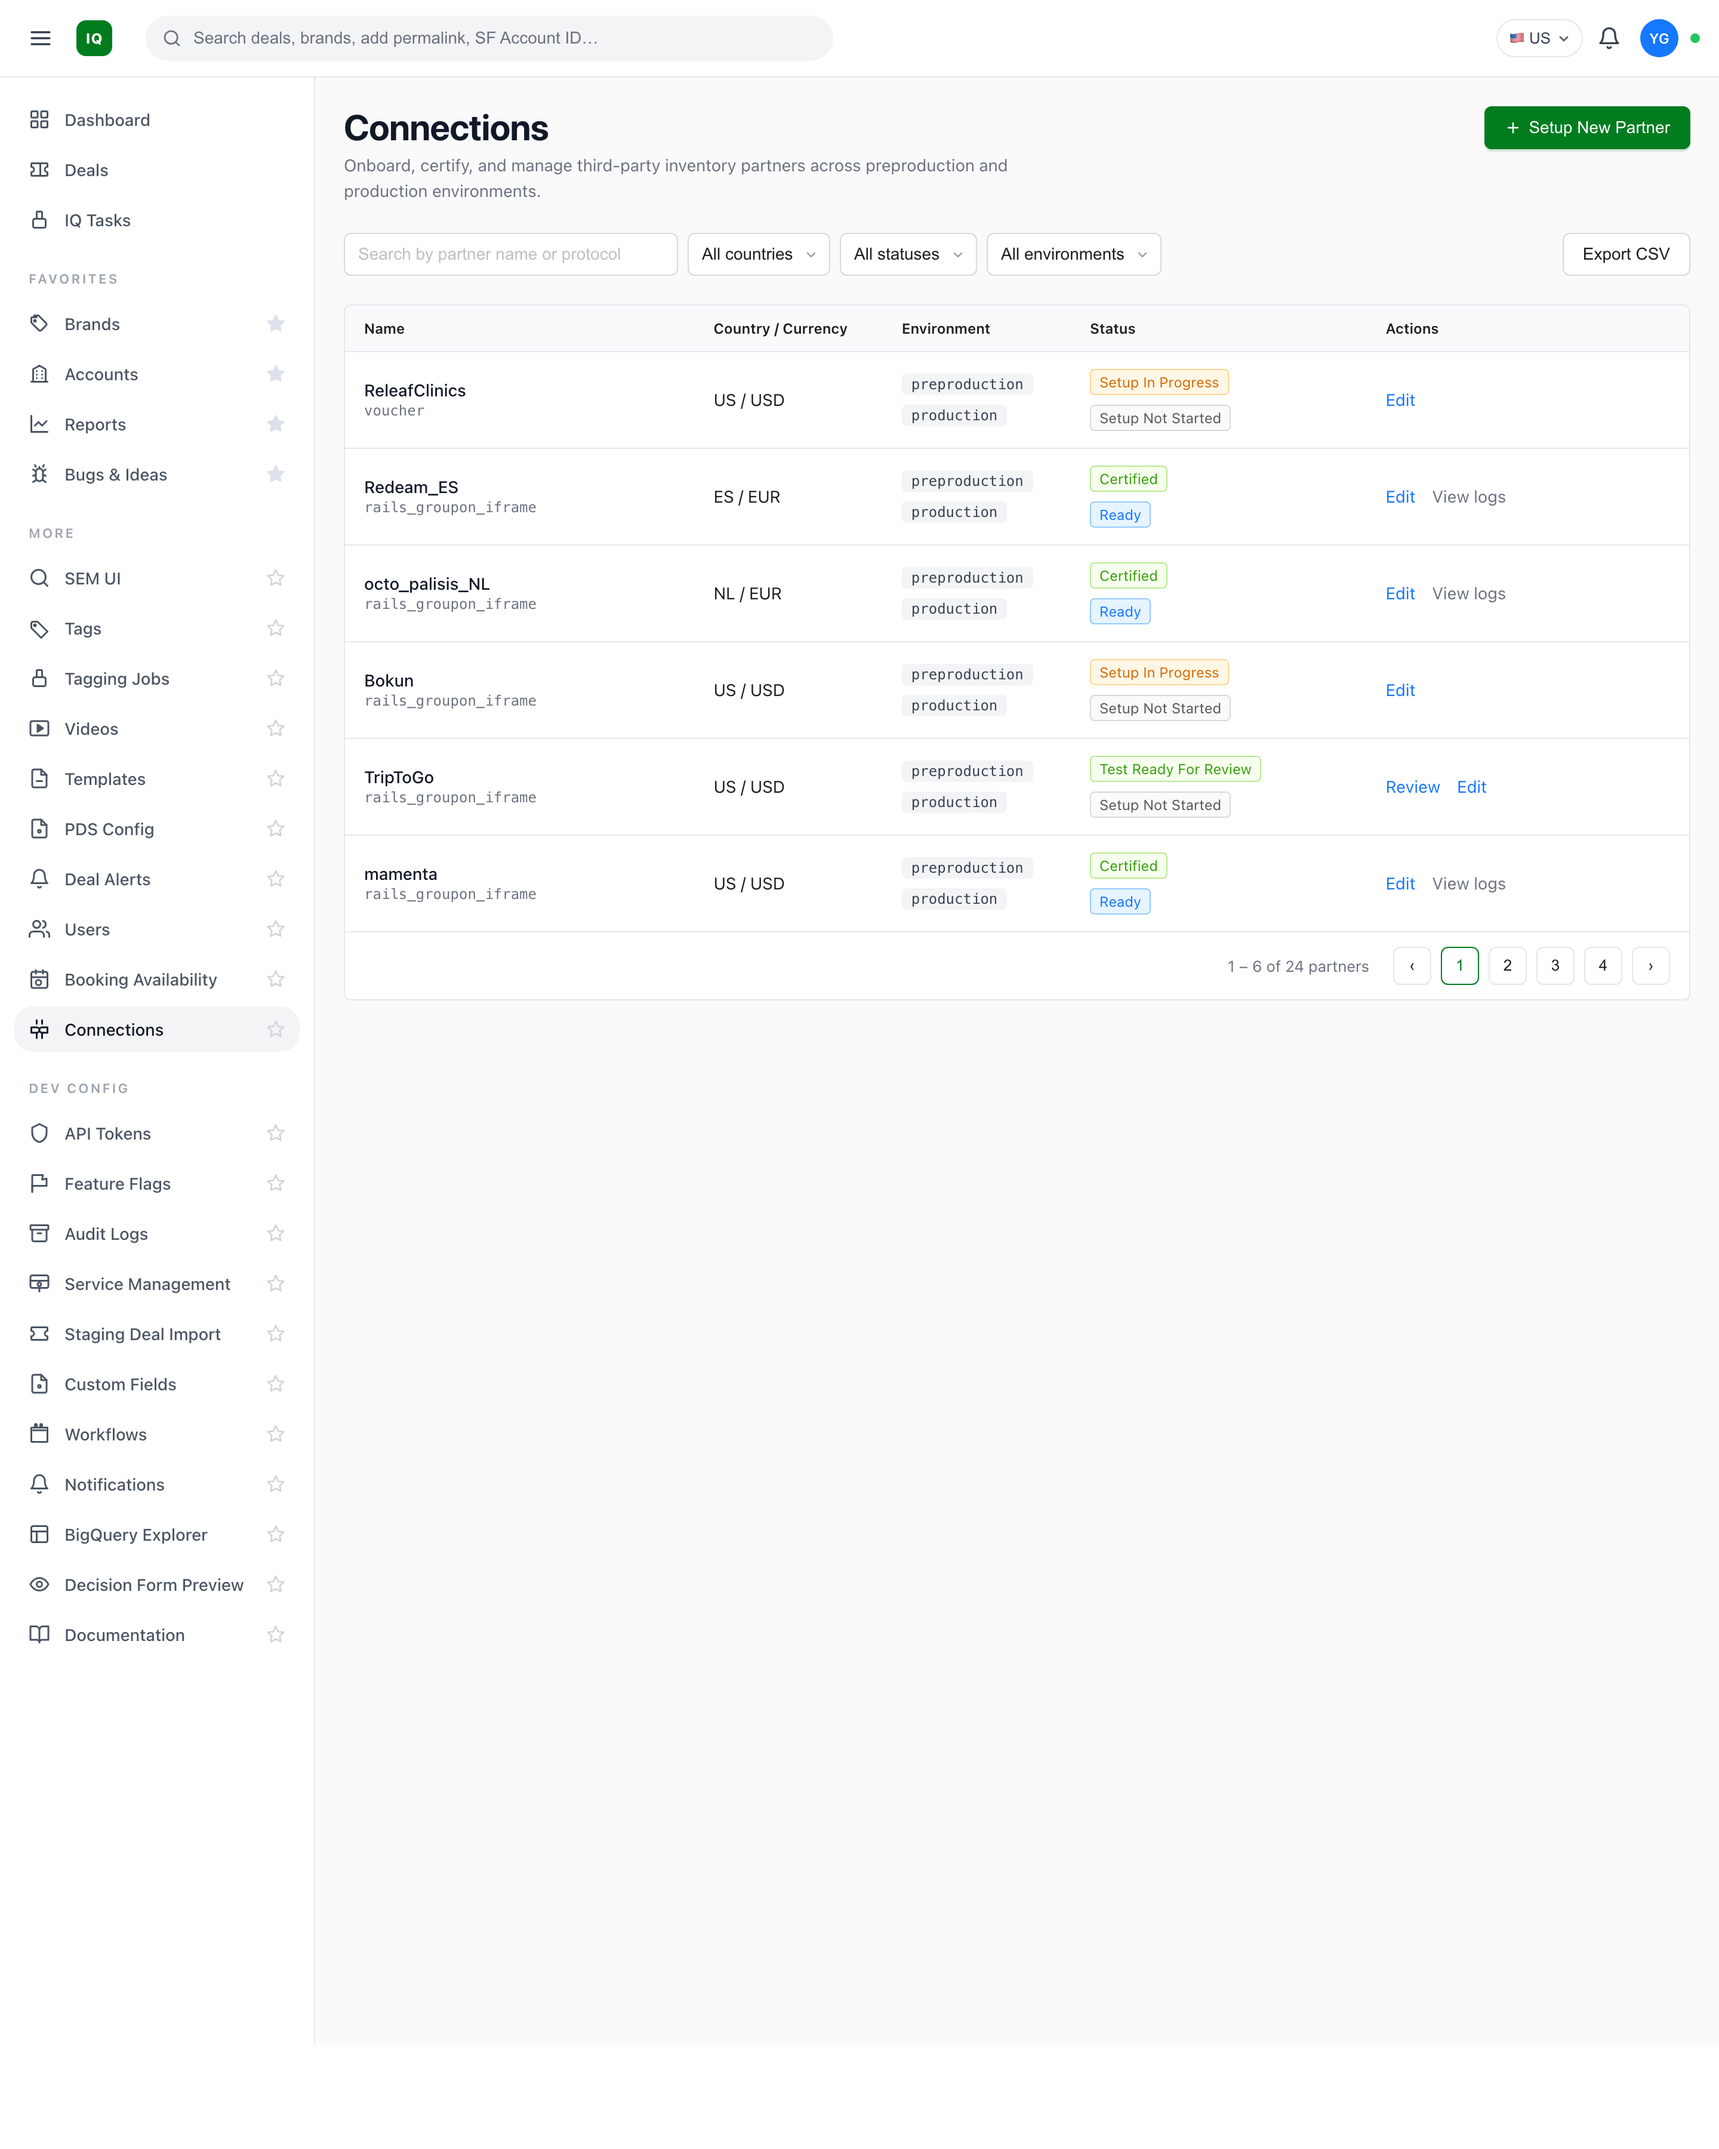
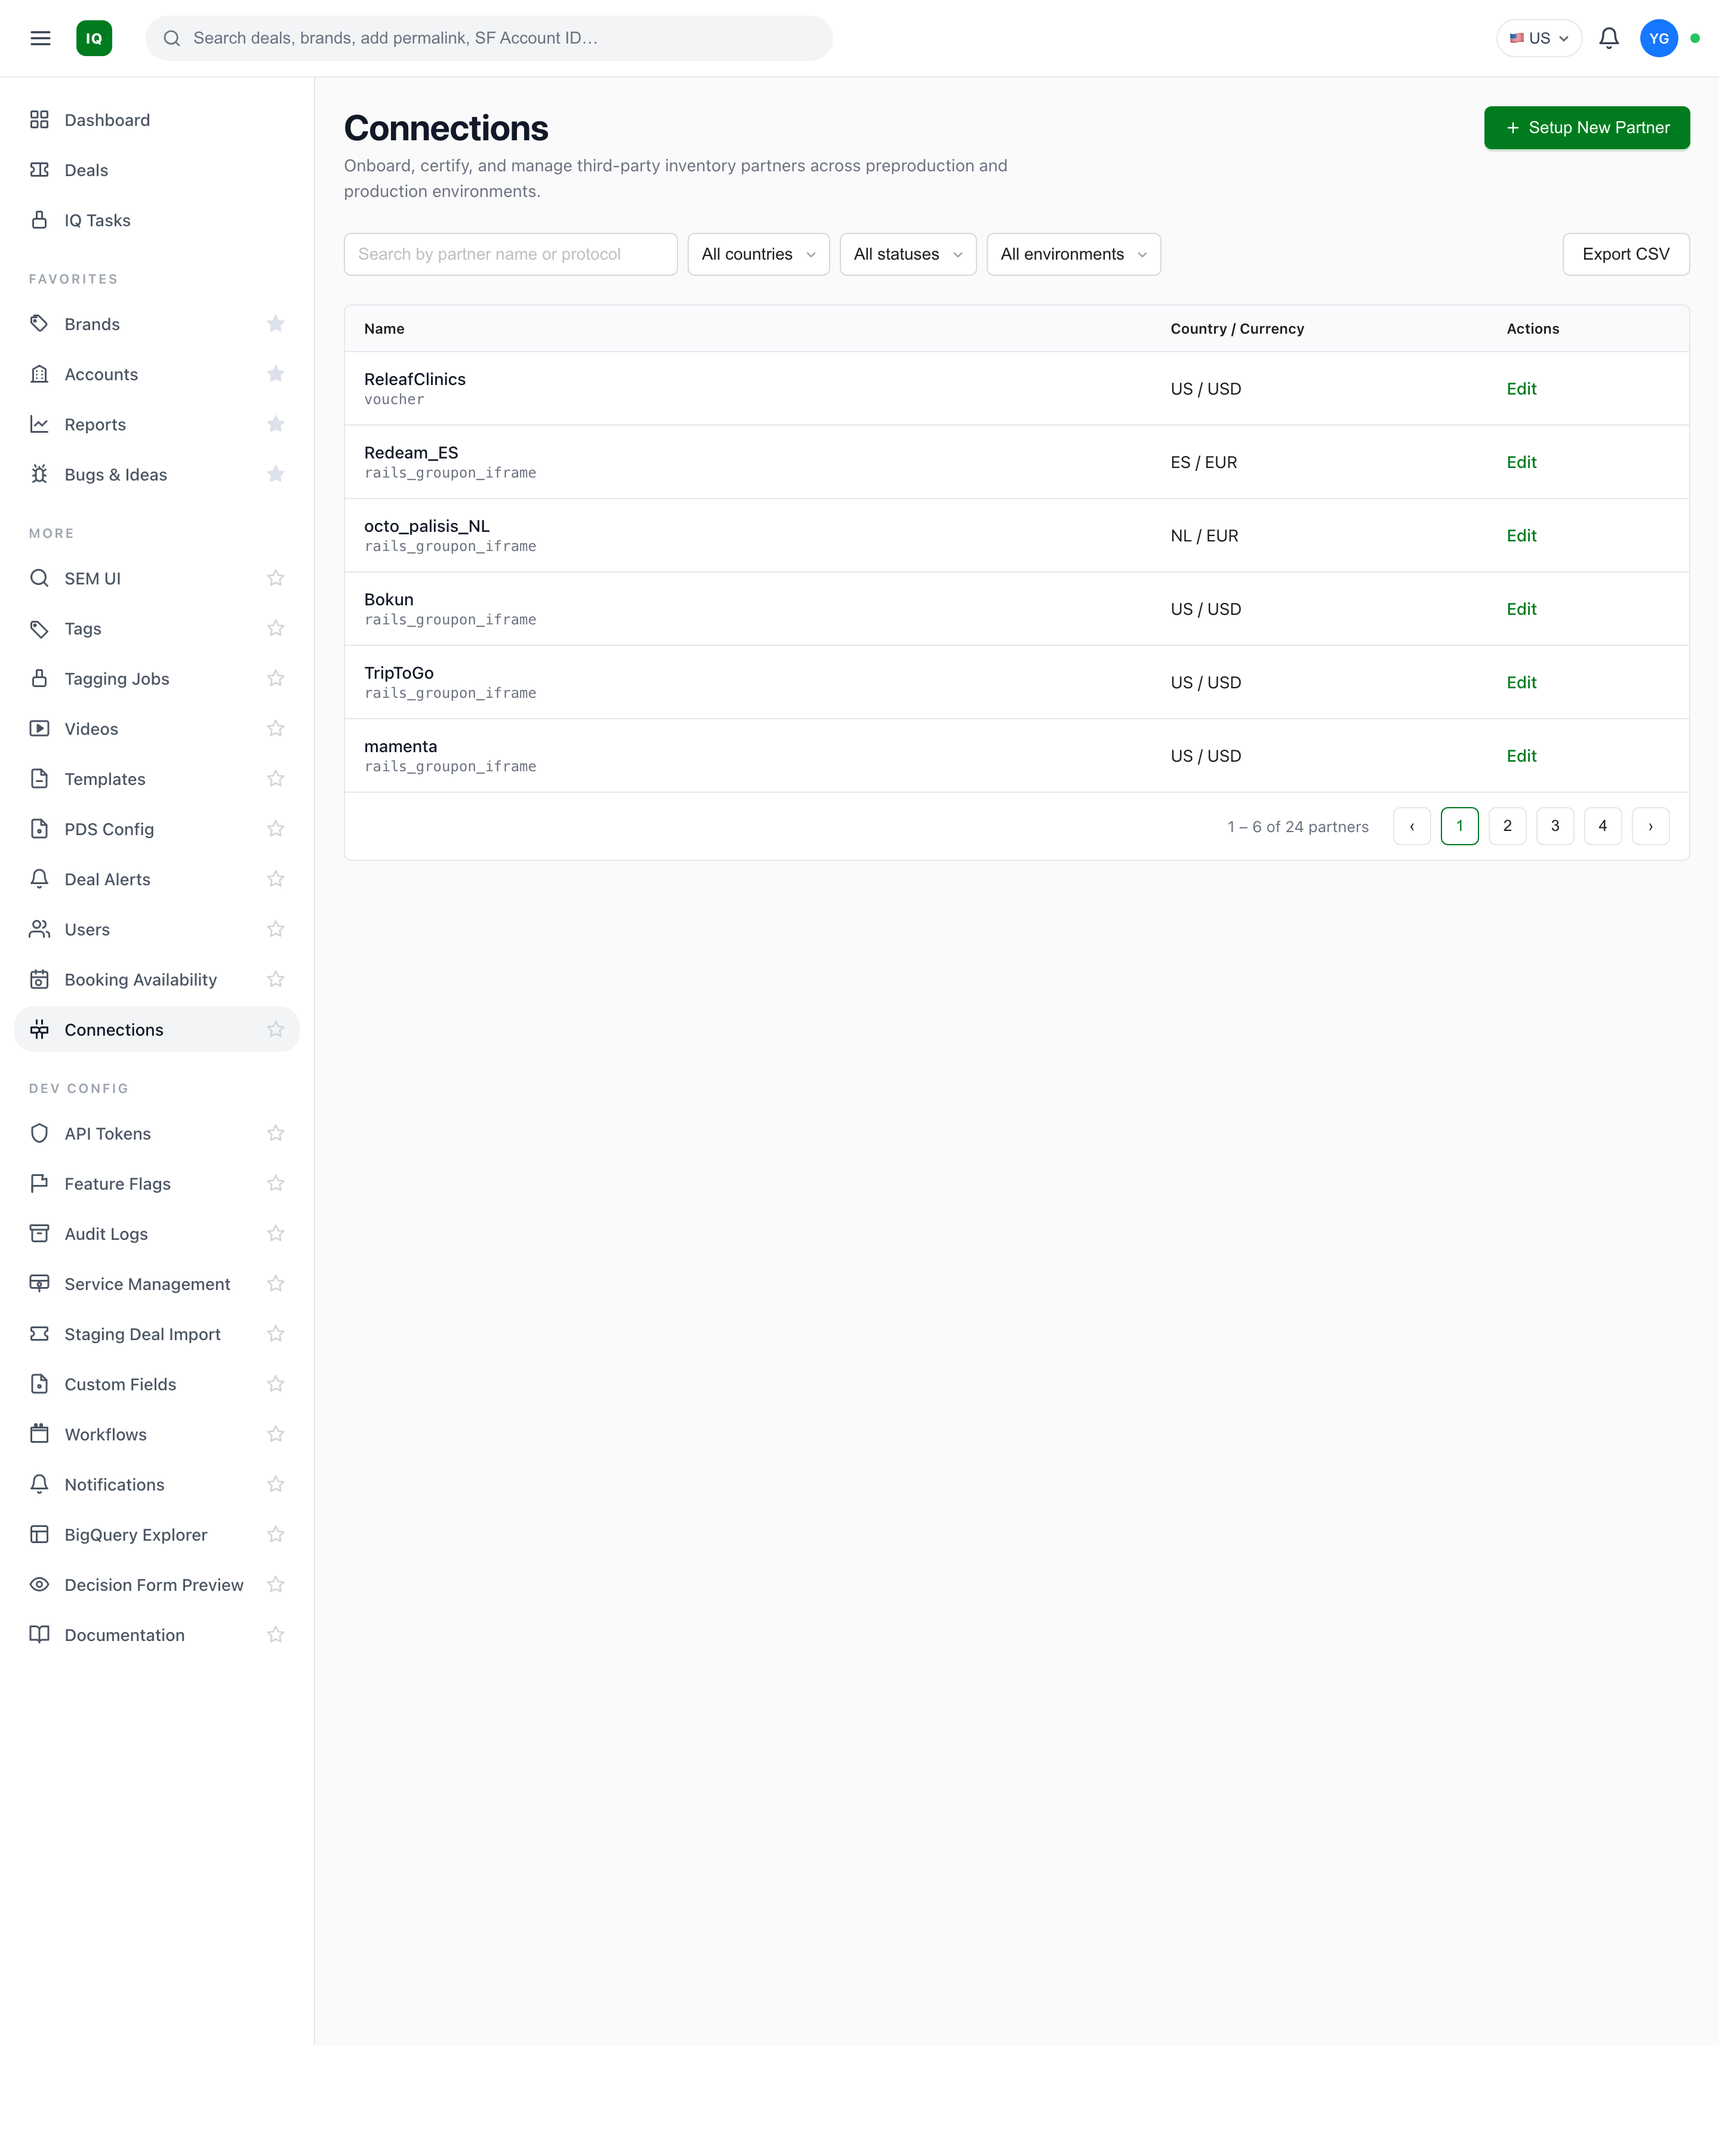
Connections list: drop Environment + Status columns; single green Edit per row
- Removed Environment column (always showed both preproduction and production
  for every partner — redundant since both envs always exist).
- Removed Status column. Per-env status is still visible inside the edit page
  on each tab badge.
- Simplified actions to a single "Edit" link per row. Removed "View logs" and
  the "Review" link on TripToGo. Edit link is now Groupon green
  (#007C1F, weight 500) instead of AntD blue, with hover #0a9928.
- Adjusted column widths: Name 60%, Country/Currency 25%, Actions 15%.

diff --git a/iq-partner-configs-mockup.html b/iq-partner-configs-mockup.html
@@ -250,9 +250,9 @@
 
   /* ---------- Action links in cells ---------- */
   .actions { display: flex; gap: 14px; }
-  .link { color: #1677ff; cursor: pointer; font-size: 14px; }
-  .link:hover { color: #4096ff; text-decoration: underline; }
-  .link-muted { color: var(--gray-500); }
+  .link { color: var(--groupon-green); cursor: pointer; font-size: 14px; font-weight: 500; }
+  .link:hover { color: #0a9928; text-decoration: underline; }
+  .link-muted { color: var(--gray-500); font-weight: 400; }
   .link-muted:hover { color: var(--gray-700); }
 
   /* ---------- Pagination (AntD style) ---------- */
@@ -394,11 +394,9 @@
           <table class="tbl">
             <thead>
               <tr>
-                <th style="width: 26%;">Name</th>
-                <th style="width: 14%;">Country / Currency</th>
-                <th style="width: 14%;">Environment</th>
-                <th style="width: 22%;">Status</th>
-                <th style="width: 24%;">Actions</th>
+                <th style="width: 60%;">Name</th>
+                <th style="width: 25%;">Country / Currency</th>
+                <th style="width: 15%;">Actions</th>
               </tr>
             </thead>
             <tbody>
@@ -408,124 +406,47 @@
                   <div class="partner-proto">voucher</div>
                 </td>
                 <td>US / USD</td>
-                <td>
-                  <div class="env-stack">
-                    <span class="env">preproduction</span>
-                    <span class="env">production</span>
-                  </div>
-                </td>
-                <td>
-                  <div class="status-stack">
-                    <span class="tag tag-orange">Setup In Progress</span>
-                    <span class="tag">Setup Not Started</span>
-                  </div>
-                </td>
-                <td><div class="actions"><a class="link" href="iq-edit-partner-config-mockup.html">Edit</a></div></td>
+                <td><a class="link" href="iq-edit-partner-config-mockup.html">Edit</a></td>
               </tr>
-
               <tr>
                 <td>
                   <div class="partner-name">Redeam_ES</div>
                   <div class="partner-proto">rails_groupon_iframe</div>
                 </td>
                 <td>ES / EUR</td>
-                <td>
-                  <div class="env-stack">
-                    <span class="env">preproduction</span>
-                    <span class="env">production</span>
-                  </div>
-                </td>
-                <td>
-                  <div class="status-stack">
-                    <span class="tag tag-green">Certified</span>
-                    <span class="tag tag-blue">Ready</span>
-                  </div>
-                </td>
-                <td><div class="actions"><a class="link" href="iq-edit-partner-config-mockup.html">Edit</a><a class="link link-muted" href="#">View logs</a></div></td>
+                <td><a class="link" href="iq-edit-partner-config-mockup.html">Edit</a></td>
               </tr>
-
               <tr>
                 <td>
                   <div class="partner-name">octo_palisis_NL</div>
                   <div class="partner-proto">rails_groupon_iframe</div>
                 </td>
                 <td>NL / EUR</td>
-                <td>
-                  <div class="env-stack">
-                    <span class="env">preproduction</span>
-                    <span class="env">production</span>
-                  </div>
-                </td>
-                <td>
-                  <div class="status-stack">
-                    <span class="tag tag-green">Certified</span>
-                    <span class="tag tag-blue">Ready</span>
-                  </div>
-                </td>
-                <td><div class="actions"><a class="link" href="iq-edit-partner-config-mockup.html">Edit</a><a class="link link-muted" href="#">View logs</a></div></td>
+                <td><a class="link" href="iq-edit-partner-config-mockup.html">Edit</a></td>
               </tr>
-
               <tr>
                 <td>
                   <div class="partner-name">Bokun</div>
                   <div class="partner-proto">rails_groupon_iframe</div>
                 </td>
                 <td>US / USD</td>
-                <td>
-                  <div class="env-stack">
-                    <span class="env">preproduction</span>
-                    <span class="env">production</span>
-                  </div>
-                </td>
-                <td>
-                  <div class="status-stack">
-                    <span class="tag tag-orange">Setup In Progress</span>
-                    <span class="tag">Setup Not Started</span>
-                  </div>
-                </td>
-                <td><div class="actions"><a class="link" href="iq-edit-partner-config-mockup.html">Edit</a></div></td>
+                <td><a class="link" href="iq-edit-partner-config-mockup.html">Edit</a></td>
               </tr>
-
               <tr>
                 <td>
                   <div class="partner-name">TripToGo</div>
                   <div class="partner-proto">rails_groupon_iframe</div>
                 </td>
                 <td>US / USD</td>
-                <td>
-                  <div class="env-stack">
-                    <span class="env">preproduction</span>
-                    <span class="env">production</span>
-                  </div>
-                </td>
-                <td>
-                  <div class="status-stack">
-                    <span class="tag tag-green">Test Ready For Review</span>
-                    <span class="tag">Setup Not Started</span>
-                  </div>
-                </td>
-                <td><div class="actions"><a class="link" href="iq-edit-partner-config-mockup.html">Review</a><a class="link" href="iq-edit-partner-config-mockup.html">Edit</a></div></td>
+                <td><a class="link" href="iq-edit-partner-config-mockup.html">Edit</a></td>
               </tr>
-
               <tr>
                 <td>
                   <div class="partner-name">mamenta</div>
                   <div class="partner-proto">rails_groupon_iframe</div>
                 </td>
                 <td>US / USD</td>
-                <td>
-                  <div class="env-stack">
-                    <span class="env">preproduction</span>
-                    <span class="env">production</span>
-                  </div>
-                </td>
-                <td>
-                  <div class="status-stack">
-                    <span class="tag tag-green">Certified</span>
-                    <span class="tag tag-blue">Ready</span>
-                  </div>
-                </td>
-                <td><div class="actions"><a class="link" href="iq-edit-partner-config-mockup.html">Edit</a><a class="link link-muted" href="#">View logs</a></div></td>
+                <td><a class="link" href="iq-edit-partner-config-mockup.html">Edit</a></td>
               </tr>
             </tbody>
           </table>
